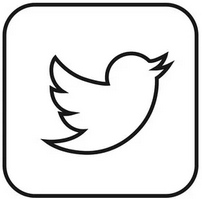
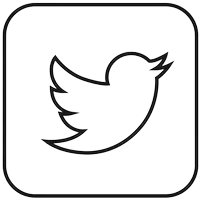
Correção de ícone e estilização do index.

Changed region(s): [[0.0, 0.0, 1.0, 0.995], [0.2079, 0.2412, 0.8614, 0.7839]]

diff --git a/modulo2/html-sistema-loja/template-loja/index.html b/modulo2/html-sistema-loja/template-loja/index.html
@@ -5,6 +5,7 @@
     <meta name="viewport" content="width=device-width, initial-scale=1.0">
     <meta http-equiv="X-UA-Compatible" content="ie=edge">
     <title>Rota 182</title>
+    <link rel="stylesheet" type="text/css" href="style.css">
 </head>
 <body>
     <header>
@@ -13,7 +14,7 @@
         <p>Apaixonados por duas rodas.</p>
     </header>
 
-    <nav>
+    <nav id="barra-menu">
         <a href="index.html">Página Inicial |</a>
         <a href="ctrl-estoque.html">Controle de Estoque |</a>
         <a href="add-produto.html">Adicionar Produto |</a>
@@ -46,9 +47,9 @@
   
     <footer>
         <h3>Siga-nos nas redes sociais!</h3>
-        <img src="img/facebook.png" alt="Ícone de acesso ao fecebook da loja." width="50px" height="50px"/>
-        <img src="img/instagram.png" alt="Ícone de acesso ao instagram da loja." width="50px" height="50px"/>
-        <img src="img/twitter.PNG" alt="Ícone de acesso ao twitter da loja." width="52px" height="52px"/>
+        <a href="https://m.facebook.com/rota182motos/"><img src="img/facebook.png" alt="Ícone de acesso ao fecebook da loja." width="50px" height="50px"/></a>
+        <a href="https://www.instagram.com/rota182/?utm_medium=copy_link"><img src="img/instagram.png" alt="Ícone de acesso ao instagram da loja." width="50px" height="50px"/></a>
+        <a href="https://twitter.com/i/flow/login?input_flow_data=%7B%22requested_variant%22%3A%22eyJsYW5nIjoicHQifQ%3D%3D%22%7D"><img src="img/twitter.PNG" alt="Ícone de acesso ao twitter da loja." width="52px" height="52px"/></a>
     </footer>
 </body>
 </html>

diff --git a/modulo2/html-sistema-loja/template-loja/style.css b/modulo2/html-sistema-loja/template-loja/style.css
@@ -1,0 +1,28 @@
+
+header {
+    text-align: center;
+}
+
+body {
+    background-color: #807970;
+    color: #F3EAE8;
+    font-size: 170%;
+    text-align: justify;
+    text-indent: 50px;  
+}
+
+main{
+    margin: 30px;  
+}
+
+#barra-menu {
+    display: block;
+    margin: none;
+    background-color: #F3EAE8;;
+    padding: 10px; 
+}
+
+footer{
+    text-align: end;
+    padding: 0px 20px 20px 0px;
+}
